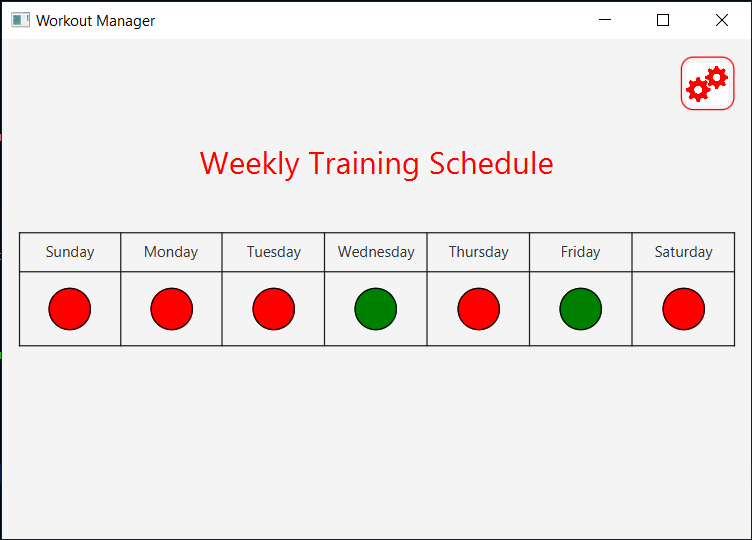
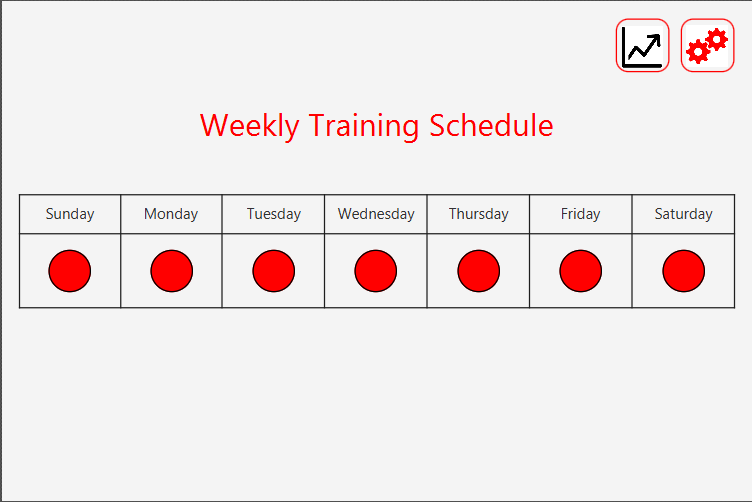
created skeletons for new Gui's and updated wireframes

diff --git a/code/src/main/java/workout_manager/view/DailyDetailsController.java b/code/src/main/java/workout_manager/view/DailyDetailsController.java
@@ -11,6 +11,7 @@ import javafx.scene.control.Accordion;
 import javafx.scene.control.Button;
 import javafx.scene.control.Label;
 import javafx.scene.control.TextArea;
+import javafx.scene.control.TextField;
 import javafx.scene.control.TitledPane;
 import javafx.stage.Stage;
 import workout_manager.Main;
@@ -26,7 +27,7 @@ import workout_manager.viewmodel.ModelControllerManager;
 public class DailyDetailsController {
 
     private ModelControllerManager mcm;
-  
+
     @FXML
     private TextArea workoutTextArea;
 
@@ -38,6 +39,22 @@ public class DailyDetailsController {
 
     @FXML
     private Accordion detailsAccordion;
+
+    @FXML
+    private Button enterWeightButton;
+
+    @FXML
+    private TextField weightTextField;
+
+    @FXML
+    void handleCompletedWorkoutButton(ActionEvent event) {
+        // TODO
+    }
+
+    @FXML
+    void handleEnterWeightButton(ActionEvent event) {
+        // TODO
+    }
 
     @FXML
     void handleBackButton(ActionEvent event) throws IOException {

diff --git a/code/src/main/java/workout_manager/view/StatsController.java b/code/src/main/java/workout_manager/view/StatsController.java
@@ -1,0 +1,24 @@
+package workout_manager.view;
+
+import javafx.event.ActionEvent;
+import javafx.fxml.FXML;
+import javafx.scene.chart.LineChart;
+import javafx.scene.control.Button;
+
+public class StatsController {
+
+    @FXML
+    private Button backButton;
+
+    @FXML
+    private LineChart<?, ?> fitnessTrackingChart;
+
+    @FXML
+    private LineChart<?, ?> weightTrackingChart;
+
+    @FXML
+    void handleBackButton(ActionEvent event) {
+
+    }
+
+}

diff --git a/code/src/main/java/workout_manager/view/WeeklyViewController.java b/code/src/main/java/workout_manager/view/WeeklyViewController.java
@@ -37,6 +37,9 @@ public class WeeklyViewController {
     private Rectangle preferencesPageButton;
 
     @FXML
+    private Rectangle statsPageButton;
+
+    @FXML
     void initialize() {
 
     }
@@ -55,6 +58,11 @@ public class WeeklyViewController {
         stage.setTitle(Main.WINDOW_TITLE);
         stage.setScene(scene);
         stage.show();
+    }
+
+    @FXML
+    void handleNavigateToStatsPage(MouseEvent event) {
+
     }
 
     @FXML
